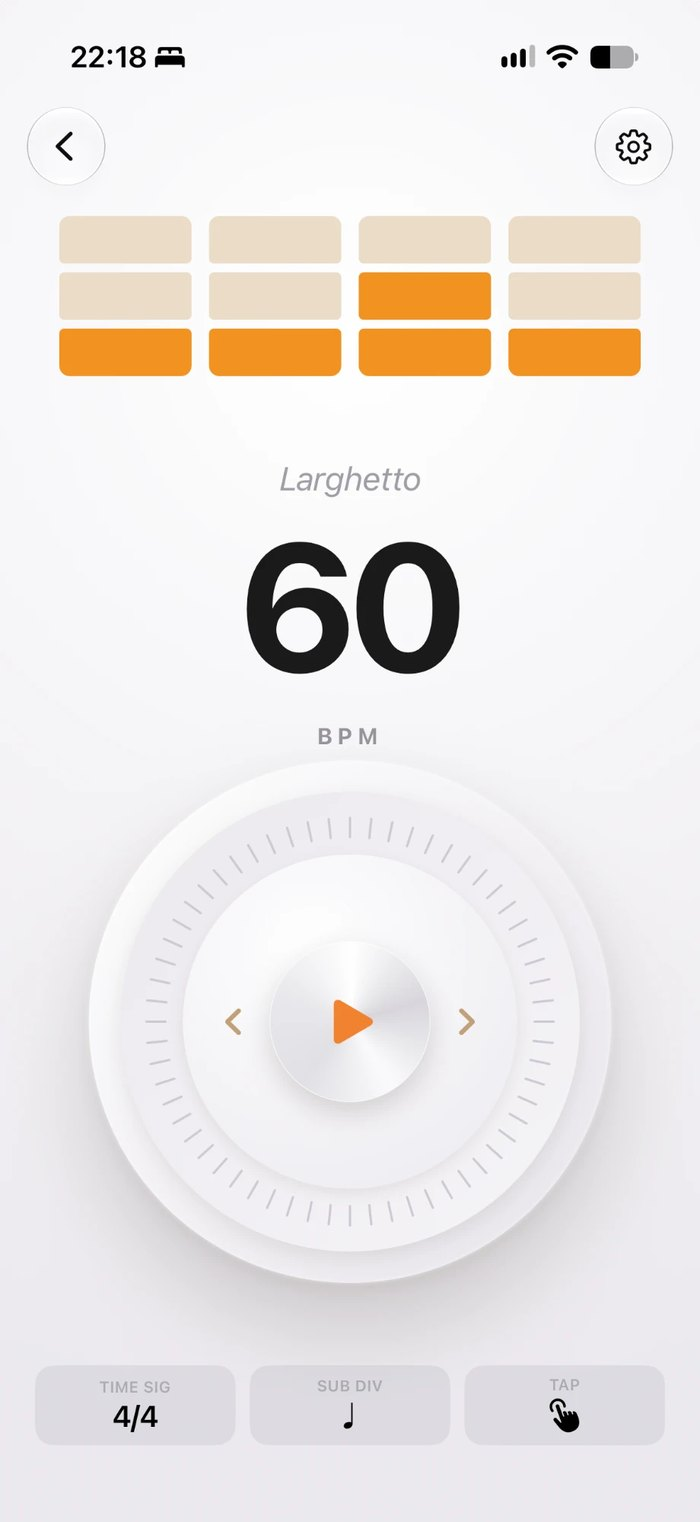
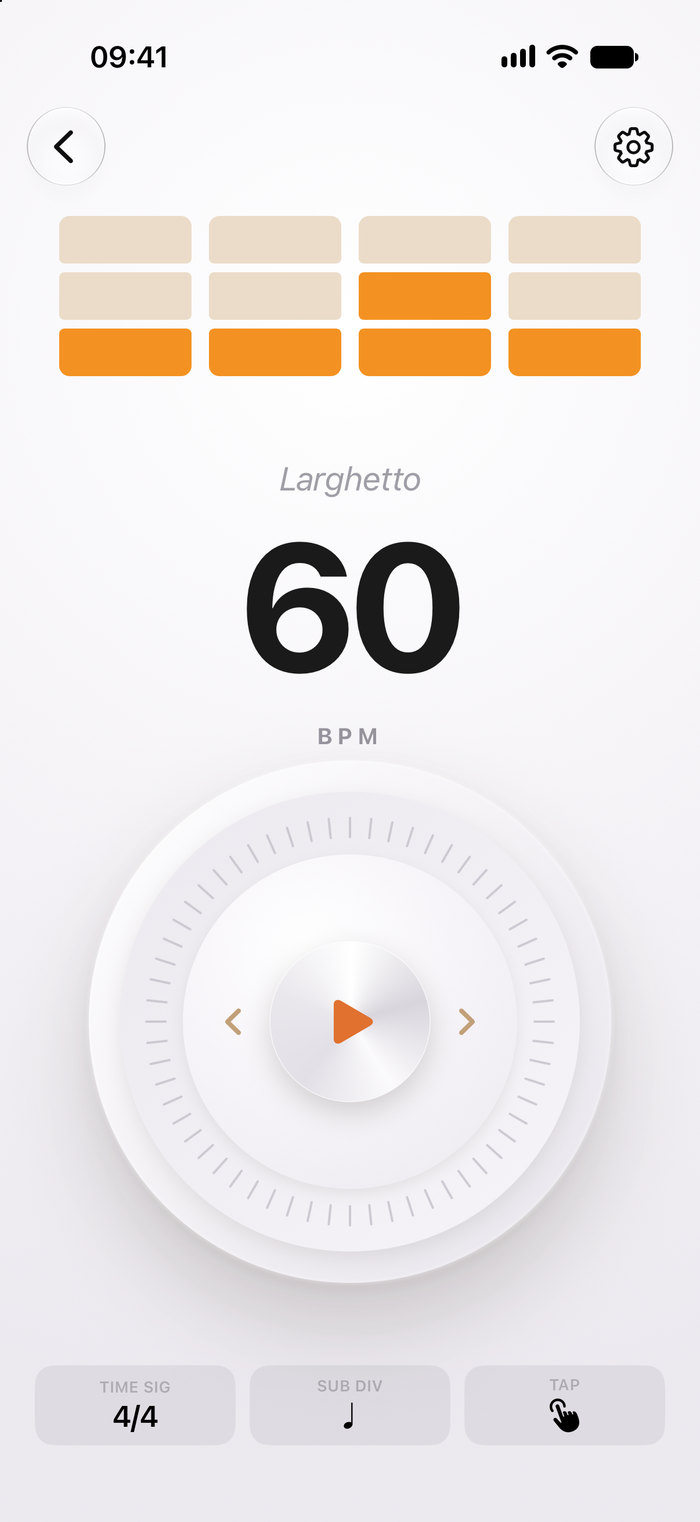
Device frames on the App Store spec; PCO Home, recording, Tone, Metronome, Piano on 4.2
Frames: every CSS device frame now follows the App Store studio's spec (docs/design-system.md),
sized from the frame's own width with container units: iPhone 17 Pro border 2 % / corners
15.5 % / Dynamic Island 31.1 x 4.2 % at 1.3 %, iPad Pro border 3.4 % / corners 2.4 %, a #060606
glass border in a thin warm band. Replaces the fixed 10-14 px bezels and 16 / 34-44 px corners
(far too round on iPad, too thick on small phones). The hero iPad (11 px border, 7.6 px corners,
340x446) and tools/home-band.py's renders follow the same spec. site.css v60, pages.css v33.

Screens (seeded 4.2 captures, MF iPhone 17 Pro 27.2):
- home-pco-iphone: Home with tomorrow's Sunday Service, Holy Forever / It Is Well / Great Is Thy
  Faithfulness (+2), as before; 'Good afternoon, Matthew'. Seeded as a set list: Home draws a
  Planning Center plan with the same card. Framed by tools/home-band.py (792x1682).
- recording-iphone: Come Thou Fount (C) in the 4.2 reader with its recording playing in the 4.2
  audio bar (1:37); the chart is a typed chord sheet of the public-domain hymn, the recording a
  stand-in file (no audio is heard in a screenshot).
- tool-tone (A4 440 Hz), tool-metronome (60 BPM Larghetto 4/4, same accents), tool-piano
  (App Store 4.2 capture, identical keyboard): 9:41 status bar like the rest of the page.

diff --git a/assets/site.css b/assets/site.css
@@ -273,15 +273,16 @@ p { margin: 0 0 16px; }
 .cords b:nth-of-type(1) { top: 6px; }
 .cords b:nth-of-type(2) { bottom: 6px; }
 .ipad {
-  position: absolute; left: 58px; top: 20px; width: 340px; height: 444px;
-  border-radius: 28px; padding: 14px;
-  background: #0E0E0F;
-  box-shadow: 0 0 0 1.5px #3A3A3C, 0 18px 30px -12px rgba(0,0,0,0.7), inset 0 0 0 1px #000;
+  /* the App Store frame spec (iPad Pro): a 318 × 424 (3 : 4) screen, border 3.4 % of its width, corners 2.4 % */
+  position: absolute; left: 58px; top: 20px; width: 340px; height: 446px;
+  border-radius: 18.6px; padding: 11px;
+  background: #060606;
+  box-shadow: 0 0 0 1px #34312C, 0 0 0 1.5px #1A1815, 0 18px 30px -12px rgba(0,0,0,0.7);
   transform: translateZ(1px) rotate(-1.2deg);
 }
 .ipad-screen {
   /* dark behind everything: the smoothed edge of the rounded clip would otherwise show a light hairline */
-  position: relative; width: 100%; height: 100%; border-radius: 16px; overflow: hidden; background: #0D0D0E;
+  position: relative; width: 100%; height: 100%; border-radius: 7.6px; overflow: hidden; background: #0D0D0E;
 }
 .ipad-screen img { width: 100%; height: 100%; object-fit: cover; object-position: 50% 0; }
 /* a home-screen slot that is still waiting for its folder or score */
@@ -295,7 +296,7 @@ p { margin: 0 0 16px; }
 }
 /* the app's warm light on the folder lining once the screen is on */
 .ipad-glow {
-  position: absolute; left: 58px; top: 20px; width: 340px; height: 444px; border-radius: 28px;
+  position: absolute; left: 58px; top: 20px; width: 340px; height: 446px; border-radius: 18.6px;
   transform: translateZ(0.5px) rotate(-1.2deg);
   box-shadow: 0 0 70px 6px rgba(242,129,46,0.22);
   opacity: 0; pointer-events: none;
@@ -407,7 +408,7 @@ p { margin: 0 0 16px; }
   left: 0; top: 0; visibility: hidden; will-change: transform;
   /* --l: 0 at the hand-off → 1 front and centre: a deeper shadow */
   box-shadow:
-    0 0 0 1.5px #3A3A3C, inset 0 0 0 1px #000,
+    0 0 0 1px #34312C, 0 0 0 1.5px #1A1815,
     0 calc(18px + 40px * var(--l, 0)) calc(30px + 70px * var(--l, 0)) calc(-12px - 8px * var(--l, 0)) rgba(0,0,0,calc(0.7 - 0.25 * var(--l, 0))),
     0 0 70px 6px rgba(242,129,46,0.22); /* the same warm light it had on the page, so the hand-off is seamless */
 }
@@ -551,10 +552,10 @@ section { position: relative; }
   transition: opacity .55s ease, transform .55s ease;
 }
 .frame.is-active { opacity: 1; transform: none; }
-.frame .device.phone { height: 88%; width: auto; aspect-ratio: 9 / 19.5; }
-.frame .device.tablet { height: 84%; width: auto; max-width: none; aspect-ratio: 0.715; }
+.frame .device.phone { height: 88%; width: auto; aspect-ratio: 0.4697; }
+.frame .device.tablet { height: 84%; width: auto; max-width: none; aspect-ratio: 0.7029; }
 /* a 13-inch capture (3 : 4) keeps its own shape, so neither the toolbar nor the pen palette is trimmed */
-.frame .device.tablet.s13 { aspect-ratio: 0.75; }
+.frame .device.tablet.s13 { aspect-ratio: 0.7621; }
 .frame .share-card { width: min(420px, 86%); }
 .story .device .screen img { width: 100%; height: 100%; object-fit: cover; object-position: 50% 0; }
 @media (prefers-reduced-motion: reduce) { .frame, .step { transition: none; } }
@@ -565,31 +566,39 @@ section { position: relative; }
   .step p { font-size: 17px; }
   .step-visual { display: flex; justify-content: center; margin-top: 28px; padding: 32px 0; border-radius: var(--radius-panel); background: var(--vellum); }
   .step-visual .device.phone { width: 230px; }
-  .step-visual .device.tablet { width: min(340px, 86%); aspect-ratio: 0.715; }
-  .step-visual .device.tablet.s13 { aspect-ratio: 0.75; }
+  .step-visual .device.tablet { width: min(340px, 86%); aspect-ratio: 0.7029; }
+  .step-visual .device.tablet.s13 { aspect-ratio: 0.7621; }
   .step-visual .share-card { width: calc(100% - 32px); }
 }
 
+/* Device frames: the App Store studio's spec (marketing/app-store/docs/design-system.md › Device framing).
+   iPhone 17 Pro: glass border 2 % of the screen's short side, display corners 15.5 %, Dynamic Island 31.1 % ×
+   4.2 % at 1.3 % from the top; iPad Pro: border 3.4 %, corners 2.4 %; a near-black glass border inside a thin
+   warm metal band. Everything is a fraction of the frame's own width (container units), so a frame looks the
+   same at every size. The border is the screen's own spread shadow (outer corner = screen corner + border). */
 .device {
-  position: relative; background: #0E0E0F; padding: 10px;
-  box-shadow: 0 0 0 1.5px #3A3A3C, var(--shadow-object);
+  position: relative; container-type: inline-size; padding: 0; background: none;
+  --bz: 3.18cqw; --r: 2.25cqw;
+}
+.device > .screen {
+  margin: var(--bz); width: auto; height: calc(100% - 2 * var(--bz)); border-radius: var(--r);
+  box-shadow: 0 0 0 var(--bz) #060606, 0 0 0 calc(var(--bz) + 1px) #34312C, 0 0 0 calc(var(--bz) + 1.5px) #1A1815,
+    0 calc(30px + var(--bz)) 60px -20px rgba(20,20,20,0.35);
 }
 .device-shot { width: 280px; height: auto; }
-.device.phone { width: 236px; aspect-ratio: 9 / 19.5; border-radius: 44px; }
-/* the bezel scales with the page so a small iPad isn't framed in a thick border (real: ~2 % of the width) */
-.device.tablet { --bezel: clamp(6px, 1.9vw, 14px); width: 100%; max-width: 420px; aspect-ratio: 3 / 4; border-radius: calc(var(--bezel) + 16px); padding: var(--bezel); }
-.device.tablet.landscape { max-width: 620px; aspect-ratio: 4 / 3; }
-/* landscape iPads are shown smaller, so a thinner bezel keeps the portrait frames' proportion (~2.6 % of the long side) */
-.device.tablet.landscape { --bezel: clamp(6px, 1.5vw, 11px); }
+/* iPhone: border 2 % and corners 15.5 % of the screen width (÷ 1.04, the frame width); 0.4697 = a 1206 × 2622 screen in its frame */
+.device.phone { width: 236px; aspect-ratio: 0.4697; --bz: 1.923cqw; --r: 14.9cqw; }
+.device.phone.landscape { --bz: 0.903cqw; --r: 7cqw; }
+/* iPad: border 3.4 % and corners 2.4 % of the screen's short side; portrait 0.7621 = a 3 : 4 (13-inch) screen in its frame */
+.device.tablet { width: 100%; max-width: 420px; aspect-ratio: 0.7621; --bz: 3.18cqw; --r: 2.25cqw; }
+.device.tablet.landscape { max-width: 620px; aspect-ratio: 1.3121; --bz: 2.43cqw; --r: 1.71cqw; }
 .device .screen {
-  width: 100%; height: 100%; border-radius: inherit; overflow: hidden;
+  overflow: hidden;
   background: var(--vellum);
   display: flex; align-items: center; justify-content: center; text-align: center;
   padding: 20px; font-size: 13px; line-height: 1.4; color: var(--graphite);
   border: 1px dashed var(--staff-line);
 }
-.device.phone .screen { border-radius: 34px; }
-.device.tablet .screen { border-radius: 16px; }
 .device .screen img { width: 100%; height: 100%; object-fit: cover; object-position: 50% 0; }
 .device .screen.shot { padding: 0; border: 0; background: #fff; }
 /* an Apple Pencil resting against the iPad (same drawing and placement as the
@@ -603,10 +612,11 @@ section { position: relative; }
 /* a full-screen screenshot sets the frame's shape instead of being cropped */
 .device.fit { aspect-ratio: auto; }
 .device.fit .screen, .device.fit .screen img { height: auto; display: block; }
-/* in the pinned stage the frame's height is fixed, so an iPad screenshot's frame takes its shape
-   (11-inch screen + the 14px bezel) instead of trimming the sides */
-.frame .device.tablet.fit { aspect-ratio: 0.703; }
-.frame .device.tablet.fit .screen, .frame .device.tablet.fit .screen img { height: 100%; }
+/* in the pinned stage the frame's height is fixed, so it takes the screenshot's shape plus its border instead of
+   trimming the sides: 0.7029 = an 11-inch screen (0.689), 0.7621 = a 13-inch one (.s13) */
+.frame .device.tablet.fit { aspect-ratio: 0.7029; }
+.frame .device.tablet.fit .screen { height: calc(100% - 2 * var(--bz)); }
+.frame .device.tablet.fit .screen img { height: 100%; }
 /* a landscape iPad screenshot (the set list) is sized by width and keeps its own shape */
 .frame .device.tablet.landscape, .step-visual .device.tablet.landscape { aspect-ratio: auto; height: auto; max-width: none; }
 .frame .device.tablet.landscape { width: 86%; }
@@ -778,8 +788,8 @@ a.who-card:hover h3 { color: var(--deep-amber); }
 /* iOS screenshots leave out the Dynamic Island, so the phone frames draw it */
 .device.phone .screen { position: relative; }
 .device.phone .screen::after {
-  content: ""; position: absolute; left: 50%; top: 1.2%; transform: translateX(-50%);
-  width: 29.5%; aspect-ratio: 3.4; border-radius: 999px; background: #000; pointer-events: none;
+  content: ""; position: absolute; left: 50%; top: 1.3%; transform: translateX(-50%);
+  width: 31.1%; aspect-ratio: 3.41; border-radius: 999px; background: #000; pointer-events: none;
 }
 
 

diff --git a/features/toolkit.html b/features/toolkit.html
@@ -128,8 +128,8 @@
   ]
 }
 </script>
-<link rel="stylesheet" href="/assets/site.css?v=59">
-<link rel="stylesheet" href="/assets/pages.css?v=32">
+<link rel="stylesheet" href="/assets/site.css?v=60">
+<link rel="stylesheet" href="/assets/pages.css?v=33">
 </head>
 <body>
 
@@ -230,7 +230,7 @@
         <article class="step is-active" data-step="0">
           <h3>Keep time with the metronome.</h3>
           <p>Tap in a tempo or turn the dial, pick a time signature and subdivision, and accent any beat. Each song remembers its own tempo, and the click keeps going when the screen locks.</p>
-          <div class="step-visual"><div class="device phone fit"><div class="screen shot"><img src="/assets/tool-metronome.jpg?v=1" alt="The Music Folder metronome on iPhone: 60 BPM in 4/4 with accented beats, a tempo dial and tap tempo" width="700" height="1522" loading="lazy"></div></div></div>
+          <div class="step-visual"><div class="device phone fit"><div class="screen shot"><img src="/assets/tool-metronome.jpg?v=2" alt="The Music Folder metronome on iPhone: 60 BPM in 4/4 with accented beats, a tempo dial and tap tempo" width="700" height="1522" loading="lazy"></div></div></div>
         </article>
         <article class="step" data-step="1">
           <h3>Tune in seconds.</h3>
@@ -240,12 +240,12 @@
         <article class="step" data-step="2">
           <h3>Hear the pitch.</h3>
           <p>Play any note in any octave as a reference pitch, or hold it as a drone in sine, strings, organ, brass or clarinet, to tune by ear and work on intonation.</p>
-          <div class="step-visual"><div class="device phone fit"><div class="screen shot"><img src="/assets/tool-tone.jpg?v=1" alt="Reference tones in Music Folder on iPhone: twelve note pads with A4 at 440 Hz" width="700" height="1522" loading="lazy"></div></div></div>
+          <div class="step-visual"><div class="device phone fit"><div class="screen shot"><img src="/assets/tool-tone.jpg?v=2" alt="Reference tones in Music Folder on iPhone: twelve note pads with A4 at 440 Hz" width="700" height="1522" loading="lazy"></div></div></div>
         </article>
         <article class="step" data-step="3">
           <h3>Eighty-eight keys, in your pocket.</h3>
           <p>A sampled grand piano, plus electric piano, strings and more, with note names and sustain. Turn your iPhone for the full keyboard.</p>
-          <div class="step-visual"><div class="device phone landscape fit"><div class="screen shot"><img src="/assets/tool-piano.jpg?v=1" alt="The 88-key piano in Music Folder on iPhone, in landscape, around middle C" width="1000" height="460" loading="lazy"></div></div></div>
+          <div class="step-visual"><div class="device phone landscape fit"><div class="screen shot"><img src="/assets/tool-piano.jpg?v=2" alt="The 88-key piano in Music Folder on iPhone, in landscape, around middle C" width="1000" height="460" loading="lazy"></div></div></div>
         </article>
         <article class="step" data-step="4">
           <h3>Right beside the score.</h3>
@@ -255,10 +255,10 @@
       </div>
       <div class="story-stage" aria-hidden="true">
         <div class="stage-inner">
-          <div class="frame is-active" data-step="0"><div class="device phone fit"><div class="screen shot"><img src="/assets/tool-metronome.jpg?v=1" alt="" width="700" height="1522" loading="lazy"></div></div></div>
+          <div class="frame is-active" data-step="0"><div class="device phone fit"><div class="screen shot"><img src="/assets/tool-metronome.jpg?v=2" alt="" width="700" height="1522" loading="lazy"></div></div></div>
           <div class="frame" data-step="1"><div class="device phone fit"><div class="screen shot"><img src="/assets/tool-guitar-tuner.jpg?v=1" alt="" width="700" height="1522" loading="lazy"></div></div></div>
-          <div class="frame" data-step="2"><div class="device phone fit"><div class="screen shot"><img src="/assets/tool-tone.jpg?v=1" alt="" width="700" height="1522" loading="lazy"></div></div></div>
-          <div class="frame" data-step="3"><div class="device phone landscape fit"><div class="screen shot"><img src="/assets/tool-piano.jpg?v=1" alt="" width="1000" height="460" loading="lazy"></div></div></div>
+          <div class="frame" data-step="2"><div class="device phone fit"><div class="screen shot"><img src="/assets/tool-tone.jpg?v=2" alt="" width="700" height="1522" loading="lazy"></div></div></div>
+          <div class="frame" data-step="3"><div class="device phone landscape fit"><div class="screen shot"><img src="/assets/tool-piano.jpg?v=2" alt="" width="1000" height="460" loading="lazy"></div></div></div>
           <div class="frame" data-step="4"><div class="device phone fit"><div class="screen shot"><img src="/assets/tool-tuner-reader.jpg?v=1" alt="" width="700" height="1522" loading="lazy"></div></div></div>
         </div>
       </div>

diff --git a/for/students.html b/for/students.html
@@ -128,8 +128,8 @@
   ]
 }
 </script>
-<link rel="stylesheet" href="/assets/site.css?v=59">
-<link rel="stylesheet" href="/assets/pages.css?v=32">
+<link rel="stylesheet" href="/assets/site.css?v=60">
+<link rel="stylesheet" href="/assets/pages.css?v=33">
 </head>
 <body>
 
@@ -212,7 +212,7 @@
       <p class="lede">Practice with a tuner, metronome and daily streak, then perform from the same page.</p>
       <div class="cta-row"><a class="badge-link" href="/get?from=for-students-hero"><picture><img src="https://toolbox.marketingtools.apple.com/api/badges/download-on-the-app-store/black/en-us?size=250x83" alt="Download on the App Store" width="144" height="48"></picture></a></div>
     </div>
-    <div class="lp-visual"><img class="cutout" src="/assets/home-iphone.webp?v=6" alt="The Music Folder home screen on iPhone, with recently opened scores and the next set list" width="396" height="830"></div>
+    <div class="lp-visual"><img class="cutout" src="/assets/home-iphone.webp?v=7" alt="The Music Folder home screen on iPhone, with recently opened scores and the next set list" width="396" height="841"></div>
   </div>
 </section>
 
@@ -227,7 +227,7 @@
   <div class="wrap rows">
     <div class="row-feature">
       <div class="rf-text"><h2 class="heading-sm">A streak that keeps you <em>coming back.</em></h2><p>Set a daily goal and Music Folder counts your practice minutes. Your streak waits on the home screen every time you open the app.</p><ul class="rf-points"><li><svg viewBox="0 0 16 16" fill="none" stroke="currentColor" stroke-width="1.9" stroke-linecap="round" stroke-linejoin="round" aria-hidden="true"><path d="M3 8.5l3 3 7-7"/></svg><span>A daily goal in minutes</span></li><li><svg viewBox="0 0 16 16" fill="none" stroke="currentColor" stroke-width="1.9" stroke-linecap="round" stroke-linejoin="round" aria-hidden="true"><path d="M3 8.5l3 3 7-7"/></svg><span>Your streak on the home screen</span></li><li><svg viewBox="0 0 16 16" fill="none" stroke="currentColor" stroke-width="1.9" stroke-linecap="round" stroke-linejoin="round" aria-hidden="true"><path d="M3 8.5l3 3 7-7"/></svg><span>Every piece one tap away</span></li></ul></div>
-      <div class="rf-visual"><img class="cutout" src="/assets/home-ipad.webp?v=7" alt="The Music Folder home screen on iPad: recently opened scores, a practice streak and folders" width="600" height="786" loading="lazy" style="width:min(300px,80%)"></div>
+      <div class="rf-visual"><img class="cutout" src="/assets/home-ipad.webp?v=8" alt="The Music Folder home screen on iPad: recently opened scores, a practice streak and folders" width="600" height="787" loading="lazy" style="width:min(300px,80%)"></div>
     </div><div class="row-feature flip">
       <div class="rf-text"><h2 class="heading-sm">Mark it up <em>your way.</em></h2><p>Pencil in fingerings, breaths, cues and lesson notes with Apple Pencil or your finger. Your markings stay on your score and sync across your devices.</p><ul class="rf-points"><li><svg viewBox="0 0 16 16" fill="none" stroke="currentColor" stroke-width="1.9" stroke-linecap="round" stroke-linejoin="round" aria-hidden="true"><path d="M3 8.5l3 3 7-7"/></svg><span>Pens, highlighters and text in several colors</span></li><li><svg viewBox="0 0 16 16" fill="none" stroke="currentColor" stroke-width="1.9" stroke-linecap="round" stroke-linejoin="round" aria-hidden="true"><path d="M3 8.5l3 3 7-7"/></svg><span>Song notes for what to work on next</span></li><li><svg viewBox="0 0 16 16" fill="none" stroke="currentColor" stroke-width="1.9" stroke-linecap="round" stroke-linejoin="round" aria-hidden="true"><path d="M3 8.5l3 3 7-7"/></svg><span>Record yourself and listen back</span></li></ul></div>
       <div class="rf-visual"><div class="device tablet fit"><div class="screen shot"><img src="/assets/annotate-ipad.jpg?v=3" alt="A score in Music Folder on iPad, marked up with circles, highlights, handwritten notes and music symbols, with the pen palette and the Symbols panel open" width="900" height="1200" loading="lazy"></div></div></div>

diff --git a/for/worship-teams.html b/for/worship-teams.html
@@ -128,8 +128,8 @@
   ]
 }
 </script>
-<link rel="stylesheet" href="/assets/site.css?v=59">
-<link rel="stylesheet" href="/assets/pages.css?v=32">
+<link rel="stylesheet" href="/assets/site.css?v=60">
+<link rel="stylesheet" href="/assets/pages.css?v=33">
 </head>
 <body>
 
@@ -230,7 +230,7 @@
       <div class="rf-visual"><div class="device tablet fit"><div class="screen shot"><img src="/assets/collab-ipad.jpg?v=2" alt="A shared Church Band folder in Music Folder on iPad, with its four participants: the owner, a co-owner, one who can edit and one who can view and download" width="900" height="1306" loading="lazy"></div></div></div>
     </div><div class="row-feature flip">
       <div class="rf-text"><h2 class="heading-sm">Come <em>prepared.</em></h2><p>Attach a recording to every song, from your music library or a file, and play it right beside the chart. Musicians learn how it goes before rehearsal, and the drummer counts in at the song’s tempo.</p><ul class="rf-points"><li><svg viewBox="0 0 16 16" fill="none" stroke="currentColor" stroke-width="1.9" stroke-linecap="round" stroke-linejoin="round" aria-hidden="true"><path d="M3 8.5l3 3 7-7"/></svg><span>A reference recording on every song</span></li><li><svg viewBox="0 0 16 16" fill="none" stroke="currentColor" stroke-width="1.9" stroke-linecap="round" stroke-linejoin="round" aria-hidden="true"><path d="M3 8.5l3 3 7-7"/></svg><span>A metronome set to each song’s tempo</span></li><li><svg viewBox="0 0 16 16" fill="none" stroke="currentColor" stroke-width="1.9" stroke-linecap="round" stroke-linejoin="round" aria-hidden="true"><path d="M3 8.5l3 3 7-7"/></svg><span>Tuner, drones and piano one tap away</span></li></ul></div>
-      <div class="rf-visual"><div class="device phone fit"><div class="screen shot"><img src="/assets/recording-iphone.jpg?v=1" alt="A chord chart for Come Thou Fount open in Music Folder on iPhone, with the song's reference recording playing in the bar above the chart" width="700" height="1522" loading="lazy"></div></div></div>
+      <div class="rf-visual"><div class="device phone fit"><div class="screen shot"><img src="/assets/recording-iphone.jpg?v=2" alt="A chord chart for Come Thou Fount open in Music Folder on iPhone, with the song's reference recording playing in the bar above the chart" width="700" height="1522" loading="lazy"></div></div></div>
     </div><div class="row-feature">
       <div class="rf-text"><h2 class="heading-sm">Works with <em class="pc">Planning Center.</em></h2><p>If your church plans in Planning Center, connect it and upcoming services appear next to your set lists, in order, with each song’s key. Mix in your own charts, and the plan’s audio plays right in the reader.</p><ul class="rf-points"><li><svg viewBox="0 0 16 16" fill="none" stroke="currentColor" stroke-width="1.9" stroke-linecap="round" stroke-linejoin="round" aria-hidden="true"><path d="M3 8.5l3 3 7-7"/></svg><span>Your team’s song library as a folder</span></li><li><svg viewBox="0 0 16 16" fill="none" stroke="currentColor" stroke-width="1.9" stroke-linecap="round" stroke-linejoin="round" aria-hidden="true"><path d="M3 8.5l3 3 7-7"/></svg><span>Upcoming services next to your set lists</span></li><li><svg viewBox="0 0 16 16" fill="none" stroke="currentColor" stroke-width="1.9" stroke-linecap="round" stroke-linejoin="round" aria-hidden="true"><path d="M3 8.5l3 3 7-7"/></svg><span>Read-only: plans stay in Planning Center</span></li></ul><p class="rf-more"><a href="/planning-center">How the connection works</a></p></div>
       <div class="rf-visual"><div class="device phone fit"><div class="screen shot"><img src="/assets/planning-center-iphone.jpg?v=2" alt="A Planning Center service plan in Music Folder on iPhone: the order of service with five songs, each with its key" width="700" height="1522" loading="lazy"></div></div></div>

diff --git a/assets/pages.css b/assets/pages.css
@@ -20,7 +20,7 @@
   min-height: 600px; padding: 48px 32px; border-radius: var(--radius-panel); background: var(--vellum);
 }
 .lp-visual .device.phone { width: 252px; }
-.lp-visual .device.tablet { width: min(400px, 100%); aspect-ratio: 0.715; }
+.lp-visual .device.tablet { width: min(400px, 100%); aspect-ratio: 0.7029; }
 .lp-visual .cutout { width: min(250px, 70%); height: auto; filter: drop-shadow(0 24px 30px rgba(20,20,20,0.18)); }
 .lp-visual .share-card { max-width: 400px; }
 @media (max-width: 960px) {
@@ -58,7 +58,7 @@ ol.how { margin: 0; padding: 0; }
   min-height: 520px; padding: 48px 32px; border-radius: var(--radius-panel); background: var(--vellum);
 }
 .rf-visual .device.phone { width: 236px; }
-.rf-visual .device.tablet { width: min(380px, 100%); aspect-ratio: 0.715; }
+.rf-visual .device.tablet { width: min(380px, 100%); aspect-ratio: 0.7029; }
 .rf-visual .share-card { max-width: 400px; }
 @media (max-width: 860px) {
   .row-feature { grid-template-columns: 1fr; gap: 32px; }
@@ -213,9 +213,8 @@ ol.how { margin: 0; padding: 0; }
 
 /* the same score on iPad and iPhone, overlapping, to show markings in sync */
 .device-duo { position: relative; width: min(400px, 100%); padding: 0 12% 6% 0; }
-.device-duo .device.tablet { width: 100%; max-width: none; aspect-ratio: 0.715; }
-.device-duo .device.phone { position: absolute; right: 0; bottom: 0; width: 38%; padding: 6px; border-radius: 28px; }
-.device-duo .device.phone .screen { border-radius: 22px; }
+.device-duo .device.tablet { width: 100%; max-width: none; aspect-ratio: 0.7029; }
+.device-duo .device.phone { position: absolute; right: 0; bottom: 0; width: 38%; }
 @media (max-width: 860px) { .device-duo { width: min(340px, 100%); } }
 
 /* a clean, minimal printer with the marked-up page coming out of it */
@@ -248,8 +247,7 @@ ol.how { margin: 0; padding: 0; }
 /* a landscape iPad screenshot (the set lists) fills the column's width */
 .lp-visual .device.tablet.landscape, .rf-visual .device.tablet.landscape { width: 100%; max-width: 620px; }
 /* a landscape iPhone screenshot (the piano) */
-.rf-visual .device.phone.landscape { width: min(520px, 100%); padding: 10px; border-radius: 40px; }
-.rf-visual .device.phone.landscape .screen { border-radius: 30px; }
+.rf-visual .device.phone.landscape { width: min(520px, 100%); }
 /* in landscape the camera sits at the side, outside the screenshot: no cutout over the picture */
 .device.phone.landscape .screen::after { display: none; }
 
@@ -257,7 +255,7 @@ ol.how { margin: 0; padding: 0; }
 .frame .device.phone.landscape { height: auto; width: 86%; aspect-ratio: auto; }
 .step-visual .device.phone.landscape { width: min(440px, 92%); }
 /* in the pinned stage the frame's height is fixed, so a portrait screenshot fills it (no gap at the bottom) */
-.frame .device.phone.fit:not(.landscape) .screen,
+.frame .device.phone.fit:not(.landscape) .screen { height: calc(100% - 2 * var(--bz)); }
 .frame .device.phone.fit:not(.landscape) .screen img { height: 100%; }
 
 /* ---------- 404 ---------- */

diff --git a/index.html b/index.html
@@ -50,7 +50,7 @@
 }
 </script>
 
-<link rel="stylesheet" href="assets/site.css?v=59">
+<link rel="stylesheet" href="assets/site.css?v=60">
 </head>
 <body>
 <svg class="defs" aria-hidden="true" focusable="false"><defs>
@@ -391,8 +391,8 @@
   <div class="wrap devices-grid">
     <div class="devices-pair reveal">
       <img class="dp-mac" src="assets/home-mac.webp?v=5" alt="Music Folder on a Mac: the home screen with the sidebar of folders and set lists, recently opened scores, the next set list and today's practice" width="800" height="664" loading="lazy">
-      <img class="dp-ipad" src="assets/home-ipad.webp?v=7" alt="The Music Folder home screen on iPad: recently opened scores, tomorrow's concert set list, a practice streak and folders" width="600" height="786" loading="lazy">
-      <img class="dp-iphone" src="assets/home-iphone.webp?v=6" alt="The same home screen on iPhone, with recently opened scores and tomorrow's set list" width="396" height="830" loading="lazy">
+      <img class="dp-ipad" src="assets/home-ipad.webp?v=8" alt="The Music Folder home screen on iPad: recently opened scores, tomorrow's concert set list, a practice streak and folders" width="600" height="787" loading="lazy">
+      <img class="dp-iphone" src="assets/home-iphone.webp?v=7" alt="The same home screen on iPhone, with recently opened scores and tomorrow's set list" width="396" height="841" loading="lazy">
     </div>
     <div class="reveal">
       <h2 class="heading-sm">The same library on every device you own.</h2>
@@ -554,13 +554,13 @@
   const seg = (p, a, b) => ease(clamp((p - a) / (b - a)));
   const FW = 450, FH = 600, THICK = 7; // board thickness, matches .edge in site.css
 
-  // the iPad on the right-hand page (matches .ipad in site.css): a 340 × 444 body
-  // at (58, 20) with a 14px bezel, tilted -1.2°, showing hero-ipad-home.webp (the 4.2
+  // the iPad on the right-hand page (matches .ipad in site.css): a 340 × 446 body
+  // at (58, 20) with an 11px border (the App Store frame spec), tilted -1.2°, showing hero-ipad-home.webp (the 4.2
   // Home screen, captured on a 13-inch iPad simulator from a demo library seeded with
   // the site's content: Summer Night Concert tomorrow, a 14-day practice streak, the six
   // folders, these scores opened last — tools/hero-seed.py); high enough on the page
   // that the Folders row stays clear of the pocket
-  const IPAD = { x: 58, y: 20, w: 340, h: 444, bezel: 14, tilt: -1.2 };
+  const IPAD = { x: 58, y: 20, w: 340, h: 446, bezel: 11, tilt: -1.2 };
   // positions on it are measured in the capture's own pixels, 2064 × 2752 (the image
   // is the same picture at 1668 wide; CSS sizes it to the screen; phones get the
   // 800 / 1100-wide copies through srcset — same picture, so same positions)

diff --git a/planning-center.html b/planning-center.html
@@ -120,8 +120,8 @@
   ]
 }
 </script>
-<link rel="stylesheet" href="/assets/site.css?v=59">
-<link rel="stylesheet" href="/assets/pages.css?v=32">
+<link rel="stylesheet" href="/assets/site.css?v=60">
+<link rel="stylesheet" href="/assets/pages.css?v=33">
 </head>
 <body>
 
@@ -204,7 +204,7 @@
       <p class="lede">Connect Planning Center Services and your team's song library and upcoming services appear in Music Folder, ready to read and play through.</p>
       <div class="cta-row"><a class="badge-link" href="/get?from=planning-center-hero"><picture><img src="https://toolbox.marketingtools.apple.com/api/badges/download-on-the-app-store/black/en-us?size=250x83" alt="Download on the App Store" width="144" height="48"></picture></a></div>
     </div>
-    <div class="lp-visual"><img class="cutout" src="/assets/home-pco-iphone.webp?v=1" alt="The Music Folder home screen on iPhone: tomorrow's Sunday Service from Planning Center with its first songs and a Start set button" width="396" height="823"></div>
+    <div class="lp-visual"><img class="cutout" src="/assets/home-pco-iphone.webp?v=2" alt="The Music Folder home screen on iPhone: tomorrow's Sunday Service from Planning Center with its first songs" width="396" height="841"></div>
   </div>
 </section>
 

diff --git a/404.html b/404.html
@@ -13,8 +13,8 @@
 <link rel="apple-touch-icon" href="/assets/apple-touch-icon.png">
 <link rel="preload" href="/assets/fonts/instrument-serif-latin.woff2" as="font" type="font/woff2" crossorigin>
 <link rel="preload" href="/assets/fonts/instrument-serif-italic-latin.woff2" as="font" type="font/woff2" crossorigin>
-<link rel="stylesheet" href="/assets/site.css?v=59">
-<link rel="stylesheet" href="/assets/pages.css?v=32">
+<link rel="stylesheet" href="/assets/site.css?v=60">
+<link rel="stylesheet" href="/assets/pages.css?v=33">
 </head>
 <body>
 

diff --git a/privacy.html b/privacy.html
@@ -32,7 +32,7 @@
 <link rel="apple-touch-icon" href="assets/apple-touch-icon.png">
 <link rel="preload" href="/assets/fonts/instrument-serif-latin.woff2" as="font" type="font/woff2" crossorigin>
 <link rel="preload" href="/assets/fonts/instrument-serif-italic-latin.woff2" as="font" type="font/woff2" crossorigin>
-<link rel="stylesheet" href="assets/site.css?v=59">
+<link rel="stylesheet" href="assets/site.css?v=60">
 <style>
 .policy { padding: 160px 0 120px; }
 @media (max-width: 860px) { .policy { padding: 112px 0 80px; } }

diff --git a/contact.html b/contact.html
@@ -32,7 +32,7 @@
 <link rel="apple-touch-icon" href="assets/apple-touch-icon.png">
 <link rel="preload" href="/assets/fonts/instrument-serif-latin.woff2" as="font" type="font/woff2" crossorigin>
 <link rel="preload" href="/assets/fonts/instrument-serif-italic-latin.woff2" as="font" type="font/woff2" crossorigin>
-<link rel="stylesheet" href="assets/site.css?v=59">
+<link rel="stylesheet" href="assets/site.css?v=60">
 <style>
 /* ---------- Support page ---------- */
 .support-hero { padding: 160px 0 72px; }

diff --git a/support.html b/support.html
@@ -32,7 +32,7 @@
 <link rel="apple-touch-icon" href="assets/apple-touch-icon.png">
 <link rel="preload" href="/assets/fonts/instrument-serif-latin.woff2" as="font" type="font/woff2" crossorigin>
 <link rel="preload" href="/assets/fonts/instrument-serif-italic-latin.woff2" as="font" type="font/woff2" crossorigin>
-<link rel="stylesheet" href="assets/site.css?v=59">
+<link rel="stylesheet" href="assets/site.css?v=60">
 <style>
 /* ---------- Support page ---------- */
 .support-hero { padding: 160px 0 72px; }

diff --git a/features/annotation.html b/features/annotation.html
@@ -120,8 +120,8 @@
   ]
 }
 </script>
-<link rel="stylesheet" href="/assets/site.css?v=59">
-<link rel="stylesheet" href="/assets/pages.css?v=32">
+<link rel="stylesheet" href="/assets/site.css?v=60">
+<link rel="stylesheet" href="/assets/pages.css?v=33">
 </head>
 <body>
 
